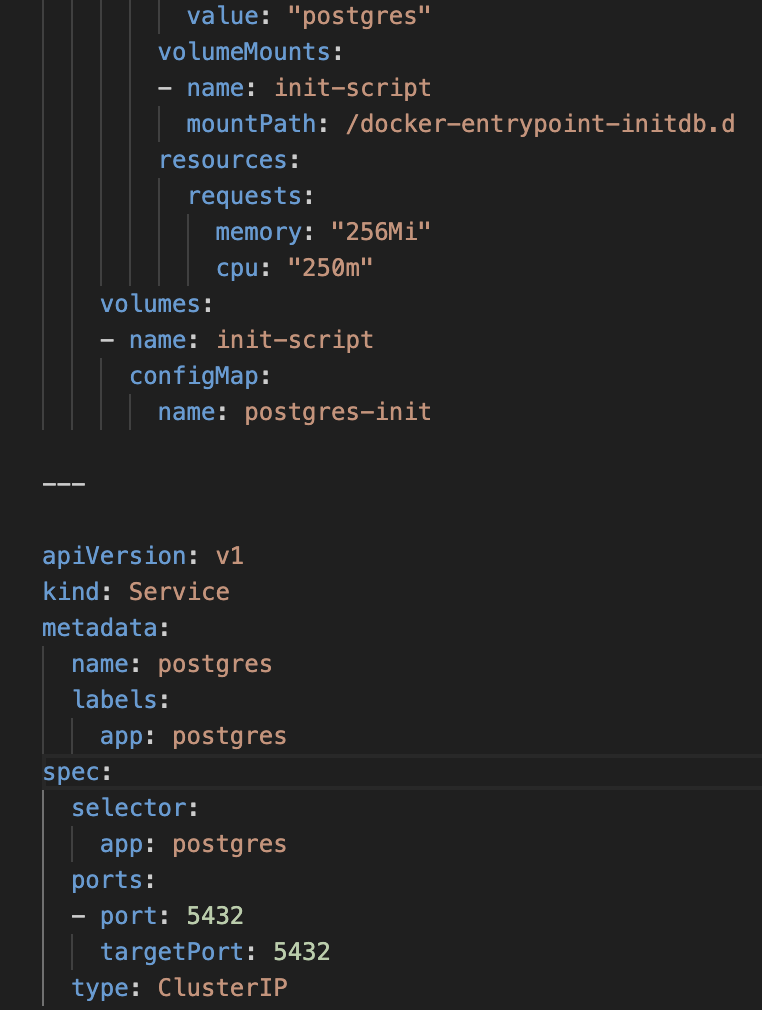
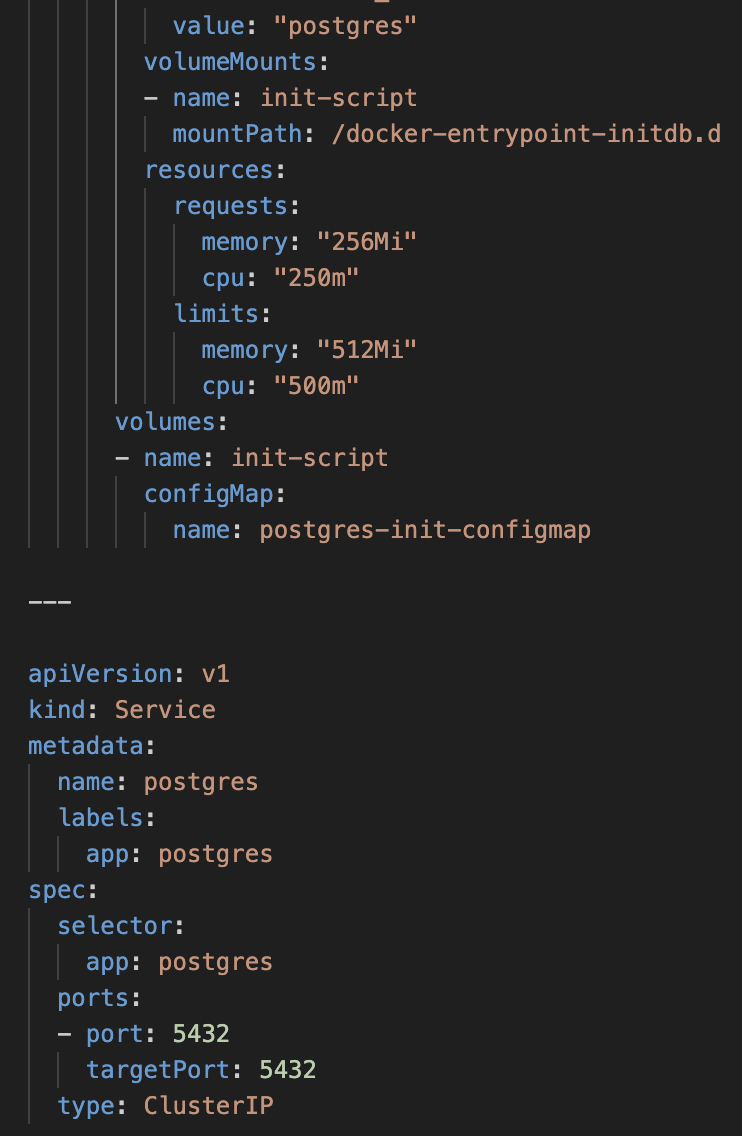
Начал RabbitMQ

diff --git a/src/REPORT.MD b/src/REPORT.MD
@@ -572,13 +572,19 @@ scp -P [порт] путь/к файлам [логин]@localhost:путь/к_п
 Чаще всего, косяки вылезают при передаче public/private -ключей. Наиболее правильный способ передачи - одной строкой. Если в падлу, то через `|-`.   
 `|` - сохраняет все переносы, `-` - удаляет поледний прернос/пустую строку
 
-### 2.4 Пишем deployment'ы
+### 2.4 Пишем первый deployment
 
 Начнём с написания postgres deployment'a.
 
 Структура:
 
 1) Шапка: 
+
+Важное замечание: 
+
+- `apps/v1` - для `Deployment`, `ReplicaSet`, `StatefulSet`, `DaemonSet`
+- `v1` - для `ConfigMap`, `Secret`, `Service`, `Pod`
+- `batch/ v1` для `Job`, `CronJob`, `Ingress`   
 
 `apiVersion: apps/v1
 kind: Deployment`
@@ -600,17 +606,30 @@ kind: Deployment`
 Здесь поле:
 
 - `volumeMounts` показывает куда передовать конфиг
-- `resources` ограничивает минимальные и максимальные выделяемые сервису ресурсы 
+- `requests` ограничивает минимальные значения
+- `limits` максимальные выделяемые сервису ресурсы 
 - `volumes` показывает, что монтировать в путь из `volumeMounts`  
 - символ `---` разделяет разные артифакты. В нашем случае: `Deployment` и `Service`
 
-Что такое `postgres-init`? 
+Что такое `postgres-init-configmap`? 
 
 >Если коротко, это ещё один configMap в котором указывается скрипт для первого запуска postgresql.
-В стандартном Docker-образе реализован механизм - при первом запуске выполнить все `.sql` файлы в `/docker-entrypoint-initdb.d/`  
+В стандартном Docker-образе реализован механизм - при первом запуске выполнить все `.sql` файлы в `/docker-entrypoint-initdb.d/`
 
-При разворачивании стандартных сервисов обычно применяют 
+Мы работаем в стиле IaC, и для обеспечения портиуемости подтягивать сам скрипт не будем, а сделаем для него обёртку в виде configmap. Так скрипт будет храниться как внутри kubernetes как объект API:
 
+![P2.12](./assets/P2.12.png)
+
+Применим написанные файлы:
+
+- `kubectl apply -f ./services/postgres-init-configmap.yaml`
+- `kubectl apply -f ./services/postgres-deployment.yaml`
+
+Получим результат:
+
+![P2.13](./assets/P2.13.png)
+
+Мы - молодцы! У нас получилось!
 
 Для чего нужны `Deployment` и `Service`?
 
@@ -624,3 +643,7 @@ kind: Deployment`
 - Создание DNS - адреса
 - Определение принимающего порта и целевого порта отдачи
 - Директива о балансировке нагрузки
+
+### 2.5 Пишем остальные конфиги
+
+Здесь отметим только важные моменты, покажем, что запускаем сервисы по очереди, как и требует задание
